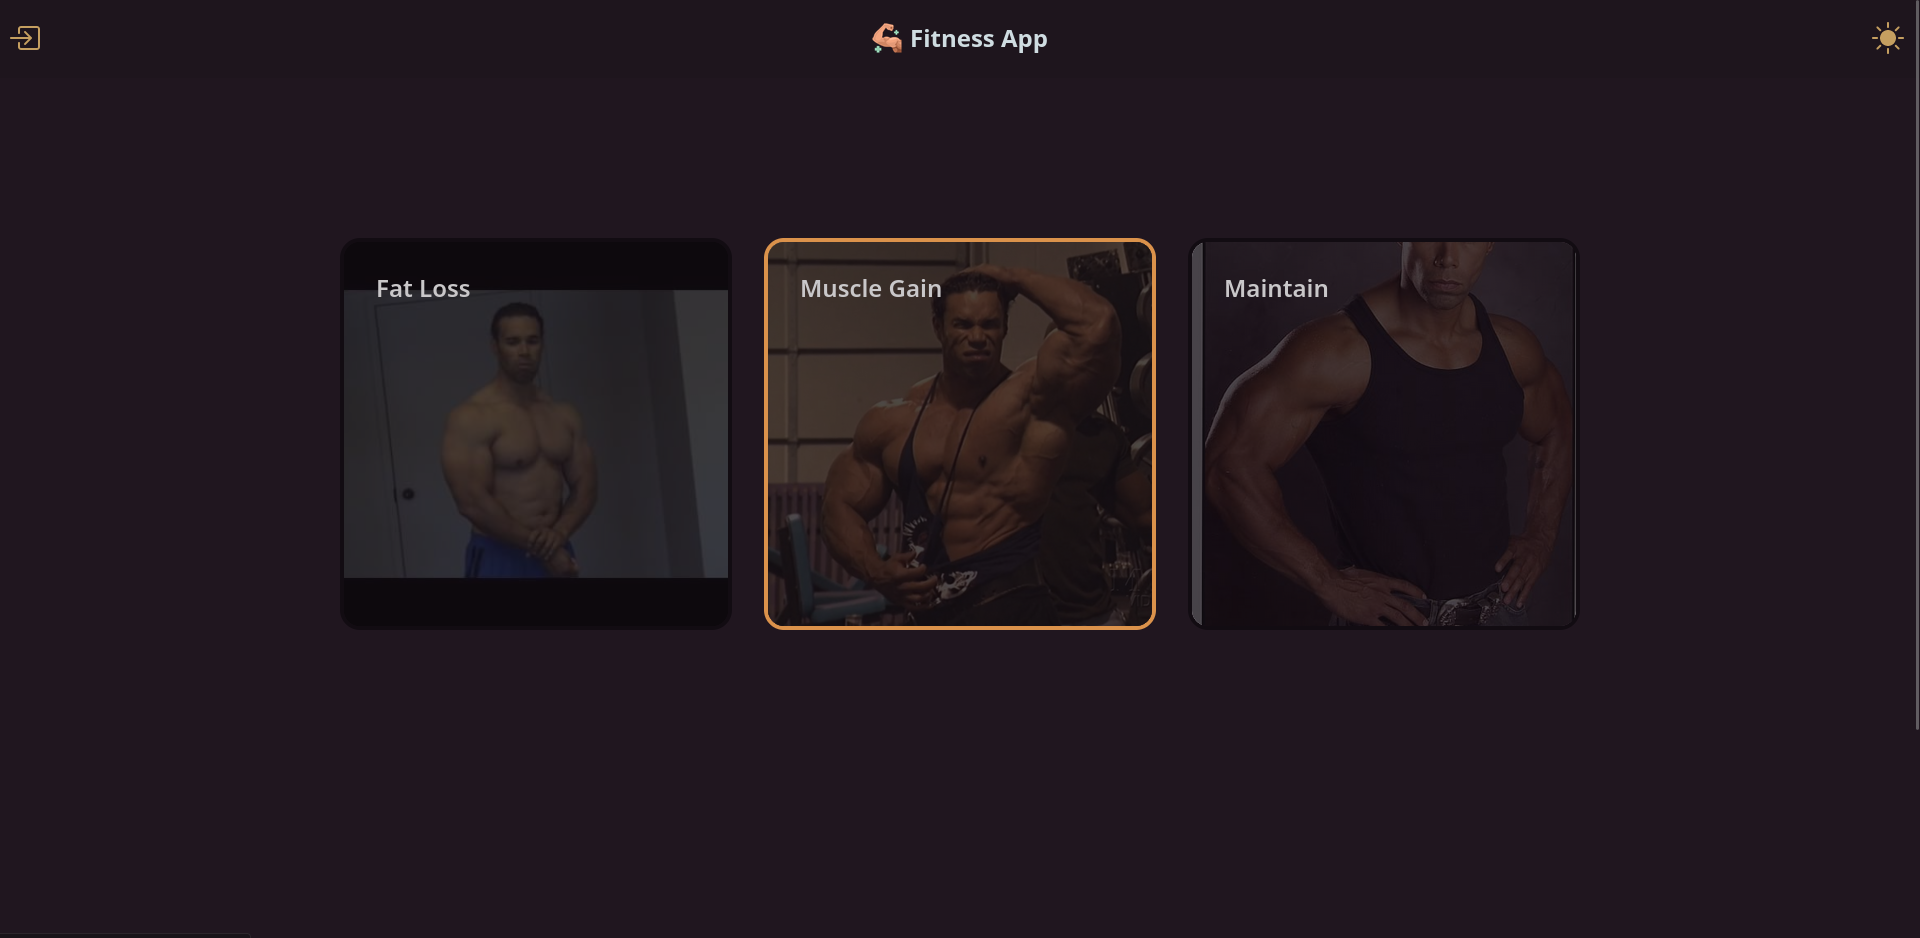
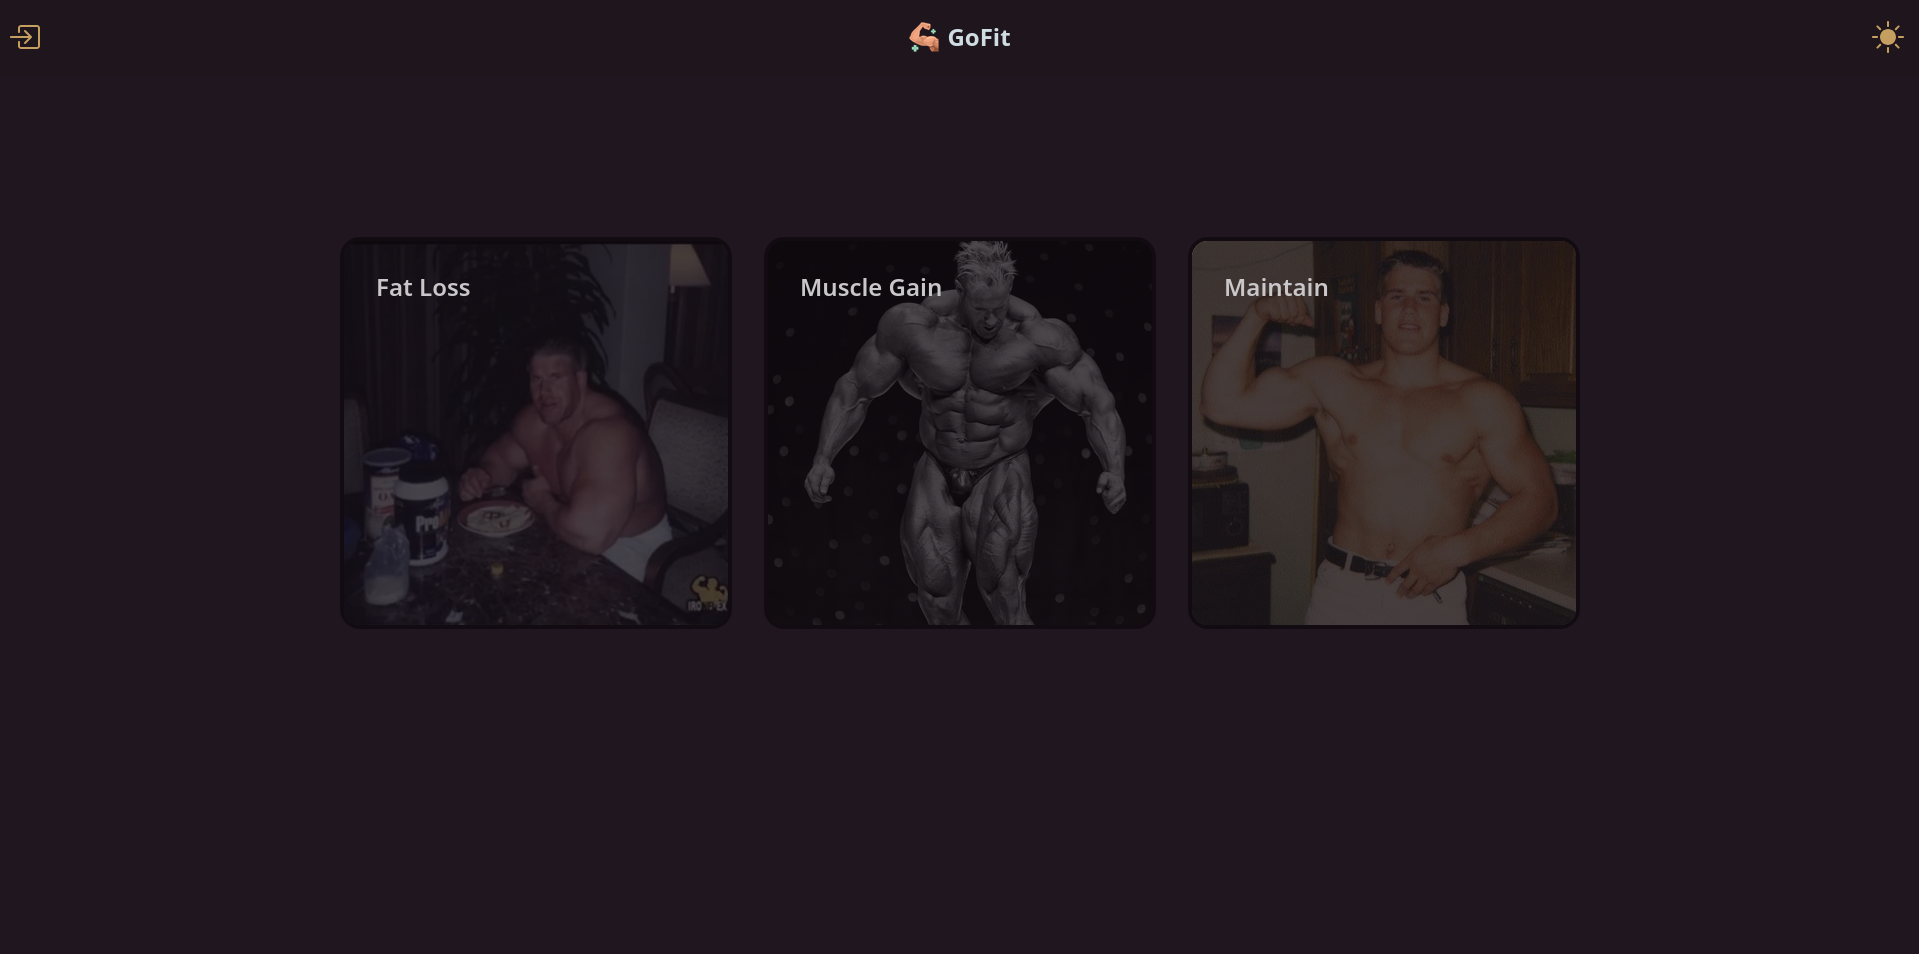
x

diff --git a/README.md b/README.md
@@ -1,4 +1,4 @@
-# <img src="./static/img.icons8.png" width="50" height="50"/> Fitness App
+# <img src="./static/img.icons8.png" width="50" height="50"/> GoFit
 
 #### Description
 This is a personal project, it is a full fledged fitness tracker. There are 3 programs a user can select, fat loss, muscle gain and maintenance. Your calorie
@@ -16,9 +16,6 @@ if I am cutting or my surplus if I am bulking. I also was learning Go and HTMX a
 
 ## Interface
 ### Desktop
-*Side menu*
-
-<img src="./static/screenshots/side_menu.png" /> 
 
 *Program selection*
 
@@ -28,25 +25,27 @@ if I am cutting or my surplus if I am bulking. I also was learning Go and HTMX a
 
 <img src="./static/screenshots/user_logs.png" /> 
 
-*Daily input tracker*
-
-<img src="./static/screenshots/daily_input_tracker.png" /> 
-
 *User profile*
 
 <img src="./static/screenshots/user_profile.png" /> 
 
+*Daily input tracker*
+
+<img src="./static/screenshots/daily_input_tracker.png" /> 
+
+*Signup page*
+
+<img src="./static/screenshots/signup.png" /> 
+
+*Calorie calculator*
+
+<img src="./static/screenshots/calorie_calc.png" /> 
+
 ### Mobile
 
-<p float="left">
-    <img src="./static/screenshots/mobile_daily_input_tracker.png" width="49%"/> 
-    <img src="./static/screenshots/mobile_homepage.png" width="49%"/>
-</p>
+<img src="./static/screenshots/mobile_interface.png" width="49%"/> 
+<img src="./static/screenshots/mobile_homepage.png" width="49%"/>
 
-<p float="left">
-    <img src="./static/screenshots/mobile_calorie_calc.png" width="49%"/> 
-    <img src="./static/screenshots/mobile_login.png" width="49%"/>
-</p>
 
 ## Run
 #### Setting up environment
